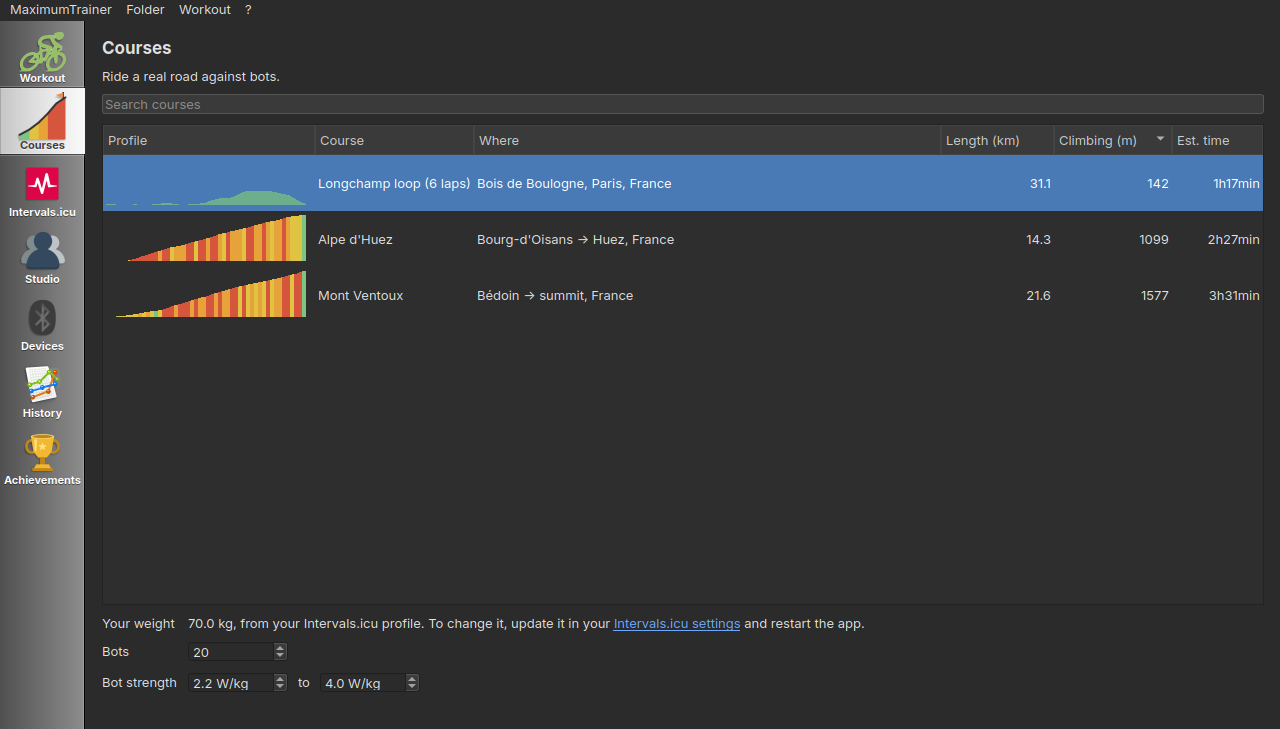
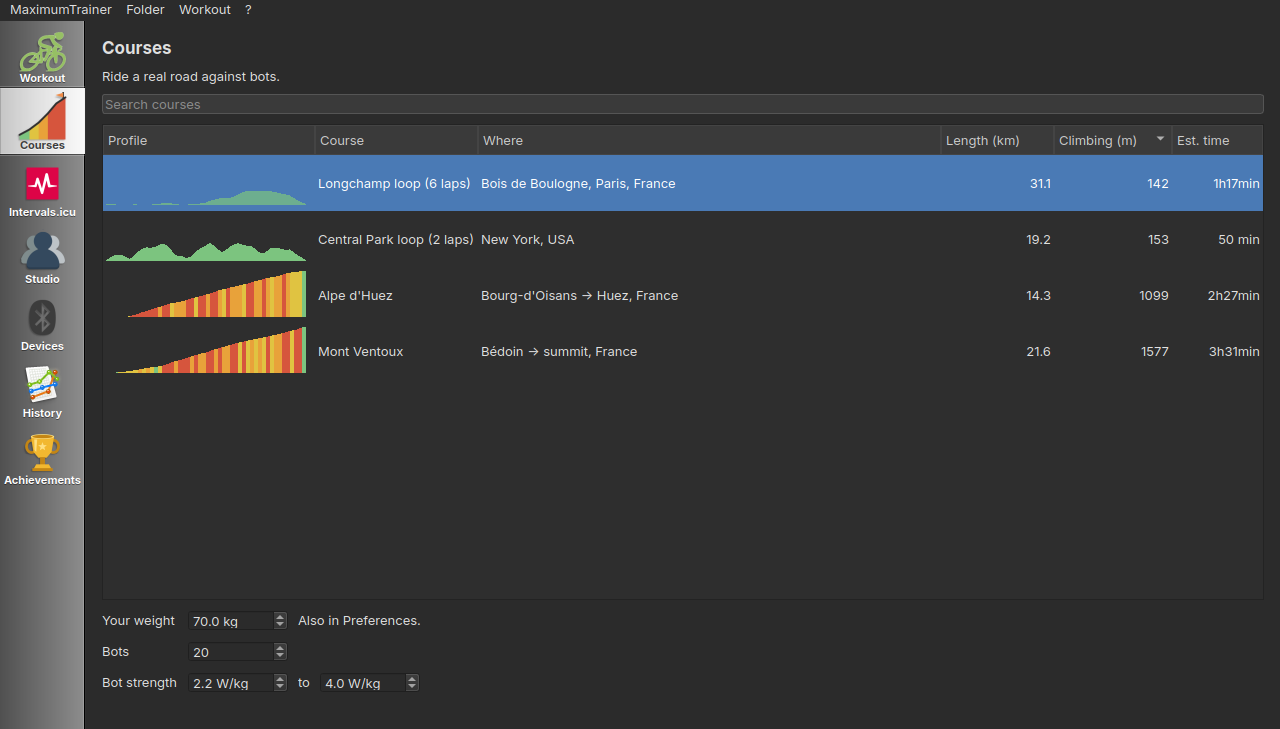
feat(courses): weight editable on the Courses page without Intervals.icu
Signed in with Intervals.icu the weight is read-only there (it is synced at
every login), as in Preferences; without it the Courses page shows an
editable weight that saves to the profile and updates the estimated times.

diff --git a/docs/user-guide.html b/docs/user-guide.html
@@ -1229,7 +1229,8 @@
           <li>Click <strong>Courses</strong> in the left bar and find a course in the list or with the search box. The
               <strong>Est. time</strong> column is your time riding alone at 70 % of your FTP (hover it for details).</li>
           <li>Set the number of <strong>Bots</strong> (20 by default, up to 50) and their <strong>Bot strength</strong>
-              range in W/kg. Your weight comes from your Intervals.icu profile: change it there and restart the app.</li>
+              range in W/kg. Signed in with Intervals.icu, your weight comes from your profile there (change it there and restart
+              the app); otherwise you can edit it on this page or in Preferences.</li>
           <li><strong>Double-click</strong> the course (or press <kbd>Enter</kbd>), choose your connection method, and
               click <strong>Start Course</strong>.</li>
         </ol>

diff --git a/src/race/coursespage.cpp b/src/race/coursespage.cpp
@@ -6,6 +6,7 @@
 #include <QDoubleSpinBox>
 #include <QFormLayout>
 #include <QSettings>
+#include <QSignalBlocker>
 #include <QSpinBox>
 #include <QHBoxLayout>
 #include <QLabel>
@@ -210,7 +211,19 @@ CoursesPage::CoursesPage(QWidget *parent)
     m_weight->setTextFormat(Qt::RichText);
     m_weight->setOpenExternalLinks(true);
     m_weight->setWordWrap(true);
-    settingsForm->addRow(tr("Your weight"), m_weight);
+    m_weightEdit = new QDoubleSpinBox(this);
+    m_weightEdit->setObjectName(QStringLiteral("coursesWeightEdit"));
+    m_weightEdit->setRange(30.0, 200.0);
+    m_weightEdit->setDecimals(1);
+    m_weightEdit->setSuffix(tr(" kg"));
+    m_weightEdit->setMinimumWidth(100);
+    auto *weightRow = new QHBoxLayout();
+    weightRow->addWidget(m_weightEdit);
+    weightRow->addWidget(m_weight, 1);
+    settingsForm->addRow(tr("Your weight"), weightRow);
+    connect(m_weightEdit, &QDoubleSpinBox::editingFinished, this, [this]() {
+        emit weightEdited(m_weightEdit->value());
+    });
     namespace Keys = SettingKeys::Courses;
     const QSettings settings;
     m_botCount = new QSpinBox(this);
@@ -286,8 +299,17 @@ double CoursesPage::estimatedSeconds(const RaceCourse &course, double watts, dou
     return solo.you().finishTimeSec.value_or(kGiveUpSec);
 }
 
-void CoursesPage::setProfile(int ftpWatts, double weightKg, double bikeKg, double cda)
+void CoursesPage::setProfile(int ftpWatts, double weightKg, double bikeKg, double cda, bool fromIntervals)
 {
+    m_ftpWatts = ftpWatts;
+    m_bikeKg = bikeKg;
+    m_cda = cda;
+    m_weightEdit->setVisible(!fromIntervals);
+    if (!fromIntervals) {
+        const QSignalBlocker quiet(m_weightEdit);
+        m_weightEdit->setValue(weightKg);
+        m_weight->setText(tr("Also in Preferences."));
+    } else
     m_weight->setText(tr("%1 kg, from your Intervals.icu profile. To change it, update it in your "
                          "<a style=\"color:#6ca8ff\" href=\"https://intervals.icu/settings\">Intervals.icu settings</a> and restart the app.")
                           .arg(weightKg, 0, 'f', 1));

diff --git a/src/ui/mainwindow.cpp b/src/ui/mainwindow.cpp
@@ -202,9 +202,14 @@ MainWindow::MainWindow(QWidget *parent) : QMainWindow(parent), ui(new Ui::MainWi
     m_achievementsPage = new AchievementsWidget(ui->stackedWidget_menu);
     ui->stackedWidget_menu->addWidget(m_achievementsPage);   // page 5, after the .ui pages
     m_coursesPage = new CoursesPage(ui->stackedWidget_menu);
-    m_coursesPage->setProfile(account->FTP, account->weight_kg, account->bike_weight_kg, account->userCda);
+    m_coursesPage->setProfile(account->FTP, account->weight_kg, account->bike_weight_kg, account->userCda,
+                                  !account->intervals_icu_access_token.isEmpty());
     ui->stackedWidget_menu->addWidget(m_coursesPage);     // page 6
     connect(m_coursesPage, &CoursesPage::rideRequested, this, &MainWindow::rideCourse);
+    connect(m_coursesPage, &CoursesPage::weightEdited, this, [this](double weightKg) {
+        account->saveProfileFields(account->FTP, account->LTHR, weightKg);
+        m_coursesPage->setProfile(account->FTP, account->weight_kg, account->bike_weight_kg, account->userCda, false);
+    });
 
 
     //Parse Workouts
@@ -457,7 +462,8 @@ void MainWindow::leftMenuChanged(int tabSelected) {
         m_achievementsPage->reload();
     // Refresh studio settings each time the Studio tab is opened.
     if (tabSelected == m_tabs.courses && m_coursesPage)
-        m_coursesPage->setProfile(account->FTP, account->weight_kg, account->bike_weight_kg, account->userCda);
+        m_coursesPage->setProfile(account->FTP, account->weight_kg, account->bike_weight_kg, account->userCda,
+                                  !account->intervals_icu_access_token.isEmpty());
     if (tabSelected == m_tabs.studio) {
         if (auto *sw = qobject_cast<StudioWidget*>(ui->studioWidget))
             sw->reload();

diff --git a/src/race/coursespage.h b/src/race/coursespage.h
@@ -32,18 +32,26 @@ public:
 
     /// The rider's profile (from Intervals.icu): sets the weight shown and the
     /// estimated times.
-    void setProfile(int ftpWatts, double weightKg, double bikeKg, double cda);
+    /// \a fromIntervals: the weight comes from Intervals.icu and is shown
+    /// read-only; otherwise it can be edited here (weightEdited).
+    void setProfile(int ftpWatts, double weightKg, double bikeKg, double cda, bool fromIntervals);
     /// Your time riding \a course alone at \a watts.
     static double estimatedSeconds(const RaceCourse &course, double watts, double riderKg, double bikeKg, double cda);
 
 signals:
     void rideRequested(const RaceCourse &course, const RaceBot::FieldSettings &bots);
+    /// The rider changed their weight here (not signed in with Intervals.icu).
+    void weightEdited(double weightKg);
 
 private:
     QVector<RaceCourse> m_courses;
     QLineEdit *m_search = nullptr;
     QTreeWidget *m_courseList = nullptr;
     QLabel *m_weight = nullptr;
+    QDoubleSpinBox *m_weightEdit = nullptr;
+    int m_ftpWatts = 0;
+    double m_bikeKg = 0.0;
+    double m_cda = 0.0;
     QSpinBox *m_botCount = nullptr;
     QDoubleSpinBox *m_minWattsPerKg = nullptr;
     QDoubleSpinBox *m_maxWattsPerKg = nullptr;
